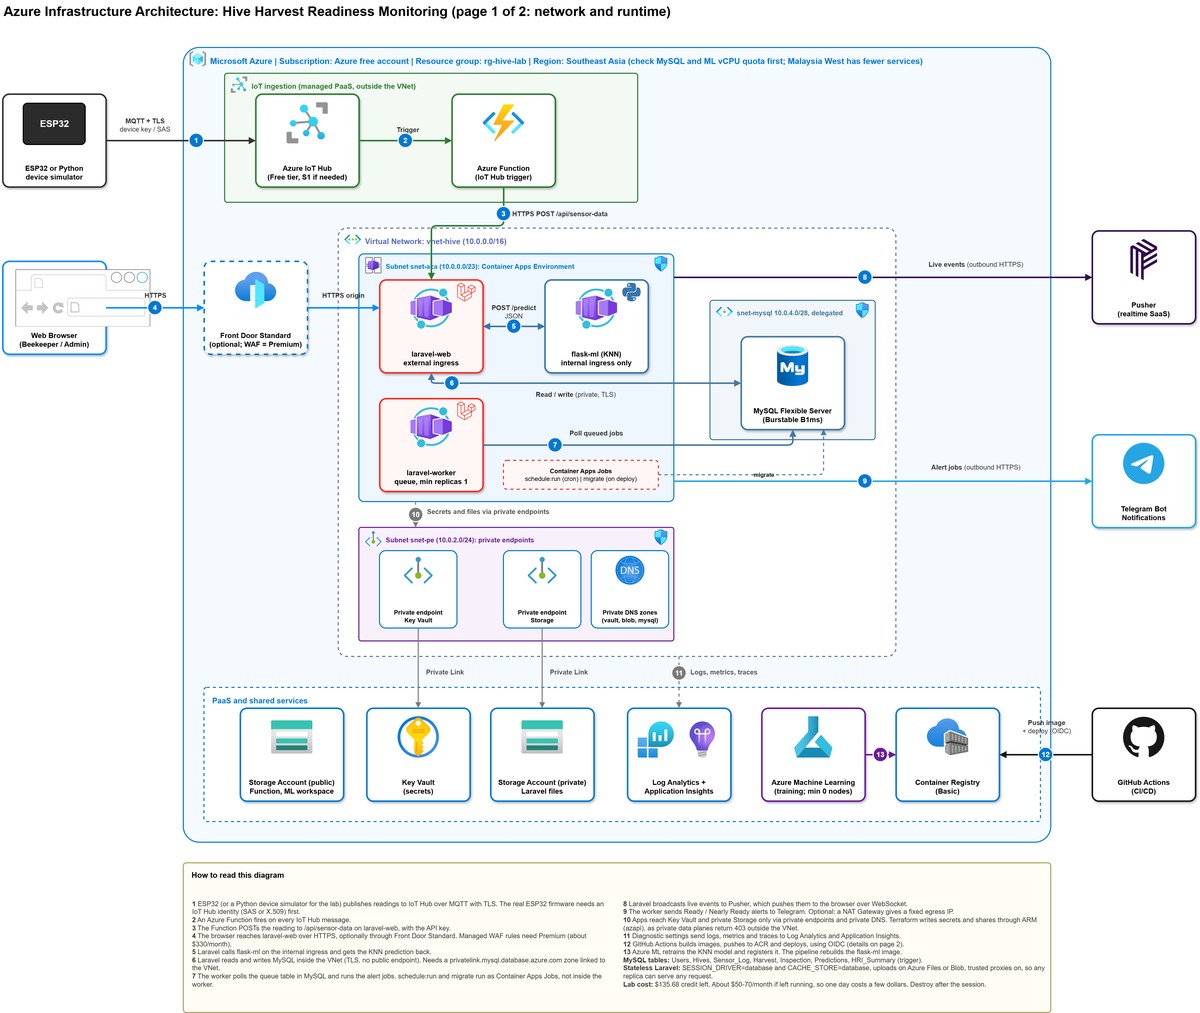
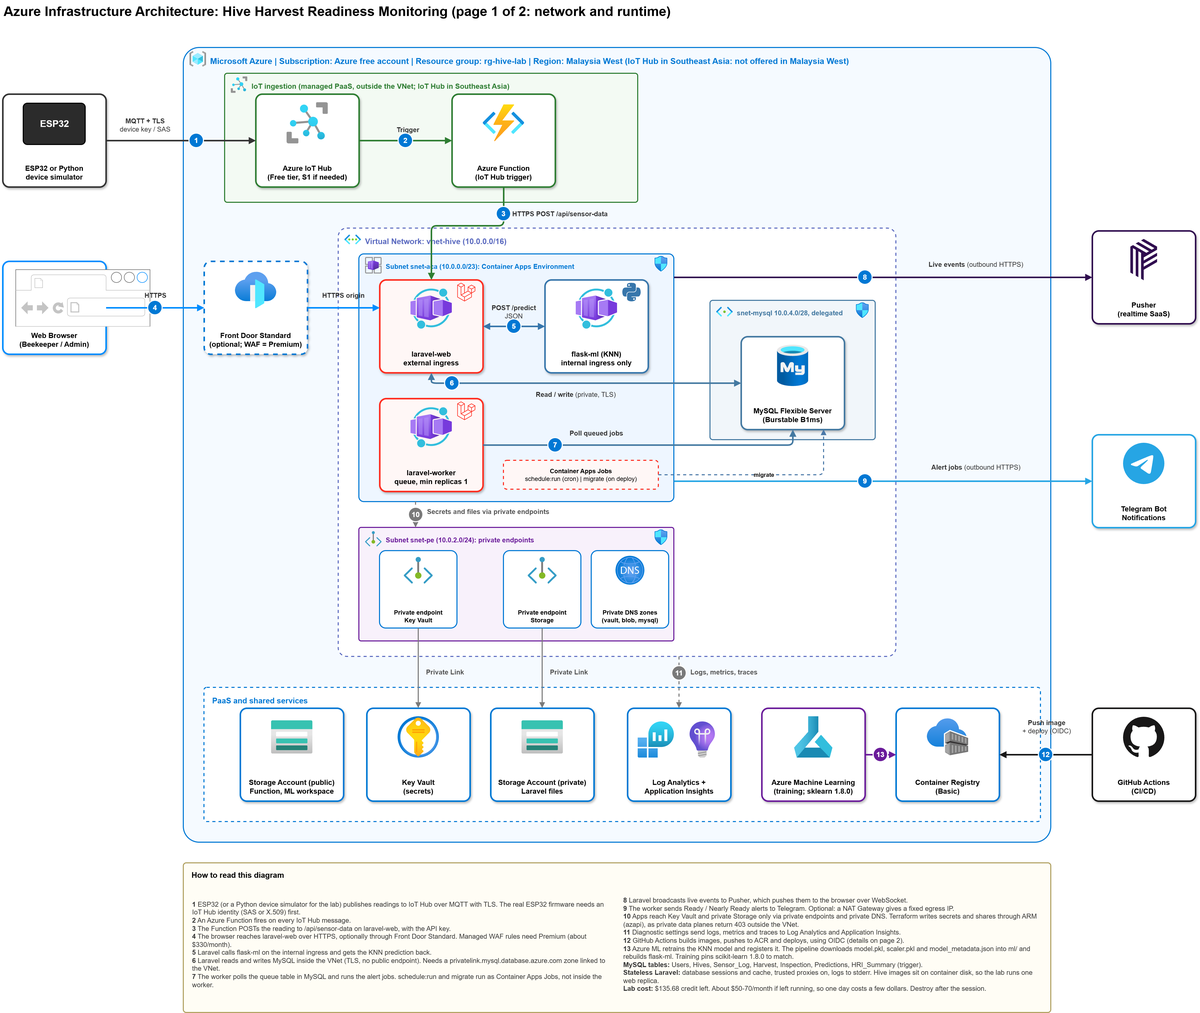
docs: record what was built, measured and found so far
- implementation-log: add the problems found before deployment (13, each
  labelled by how it was found), new timeline rows for CI, the app tests and
  the preflight run, updated open questions, and the lessons so far.
- README: add a status table, measured results and what was learned.
- deploy: concrete step-by-step runbook for the three roots.
- troubleshooting: add the budget entry.
- architecture and cost docs: Malaysia West with the IoT Hub in Southeast
  Asia, and the buzzyhive tag.
- diagram: new region label and tag, and re-exported PNGs for both pages.

Nothing has been applied to Azure yet. Results are from local builds, CI and
read-only commands, and each claim says which.

Changed region(s): [[0.4991, 0.8701, 0.8735, 0.9944], [0.156, 0.9012, 0.3744, 0.9633], [0.6551, 0.7769, 0.6863, 0.8079]]

diff --git a/docs/implementation-log.md b/docs/implementation-log.md
@@ -3,7 +3,7 @@
 This log records how the infrastructure was planned, deployed, and fixed. It lists what happened, what failed, and why each decision was made.
 
 > [!NOTE]
-> The design and the Terraform scaffold are done, and `terraform validate` passes in all three roots. Nothing has been applied yet, so the apply entries below are left to fill in.
+> The design, the Terraform scaffold and the Docker images are done and checked locally and in CI. A read-only preflight has been run against the real subscription. Nothing has been applied to Azure yet, so the apply entries below are left to fill in.
 
 ## 1. Goal
 
@@ -37,7 +37,7 @@ Host [BuzzyHive 2.0](https://github.com/tttaufiqqq/Kelulut-Hive-Harvest-Readines
 | MySQL parameter | `log_bin_trust_function_creators = ON` | The migrations create a trigger, which failed locally with error 1419 |
 | Locks | Behind `enable_locks`, off in the lab | Locks block `terraform destroy` |
 | Pipeline roles | Contributor plus RBAC Administrator | Contributor cannot create role assignments |
-| Region | Southeast Asia | More services than Malaysia West |
+| Region | Malaysia West, IoT Hub in Southeast Asia | `az provider show -n Microsoft.Devices` lists no Malaysia West for IoT Hubs. An earlier draft chose Southeast Asia on an unchecked assumption that Malaysia West had fewer services |
 | Edge | Front Door Standard, optional | WAF managed rules need Premium at about $330 per month |
 
 ## 3. Timeline
@@ -50,21 +50,52 @@ Host [BuzzyHive 2.0](https://github.com/tttaufiqqq/Kelulut-Hive-Harvest-Readines
 | 2026-11-24 | Documentation written | This repository |
 | 2026-11-24 | Dockerfiles, compose file and `.dockerignore` written in the app repository | Found while doing it: the `ML_URL` name was wrong in Terraform, `VITE_PUSHER_*` must be build arguments, `TRUSTED_PROXIES` was needed, and uploads use local disk |
 | 2026-11-24 | Both images built and run with Docker Compose in WSL2 | Whole stack works end to end. The migrate step failed on a trigger until `log_bin_trust_function_creators` was set. See [Docker images](docker.md) for sizes and the Alpine comparison |
+| 2026-11-24 | Region changed after checking the `Microsoft.Devices` provider list | Malaysia West for everything except the IoT Hub, which has no Malaysia West and goes to Southeast Asia |
 | 2026-11-24 | Terraform scaffolded: `bootstrap`, `foundation`, `lab`, `scripts/preflight.sh`, CI workflow | `terraform fmt` and `validate` pass. Not planned or applied. |
+| 2026-11-24 | First push to GitHub triggered CI | `terraform fmt -check`, `validate` and `tflint` passed for all three roots (4 jobs, 17 seconds) |
+| 2026-11-24 | App test suite run in a throwaway container against the changed app code | 168 tests, 842 assertions, all pass |
+| 2026-11-24 | `scripts/preflight.sh` run against the real Free Trial subscription | Providers registered, MySQL B1ms offered in Malaysia West, quota 4 vCPUs (4 for DSv2), IoT Hub listed for Southeast Asia. Two checks had bugs of their own (see section 4), fixed and re-run clean |
 | | Root 1: bootstrap, first apply | Not started |
 | | Root 2: foundation, first apply | Not started |
 | | Root 3: lab, first apply | Not started |
 | | Azure ML training run | Not started |
 
-## 4. Open questions
+## 4. Problems found before deployment
 
-- Does MySQL B1ms have capacity in Southeast Asia for this subscription?
-- Is the Azure ML compute quota for the chosen VM family above zero?
+Found before any resource existed in Azure, mostly by building and running the images. "Running" means reproduced. "Code read" means found by reading the app, then confirmed or fixed in a build. "Review" means reasoned from documented behaviour and not yet confirmed. Entries with a troubleshooting number have a symptom-to-fix write-up.
+
+| Problem | Found by | Effect if missed | Fix |
+|---|---|---|---|
+| The migrations create a MySQL trigger. MySQL refuses it for a non-SUPER user when binary logging is on (error 1419) | Running (Compose) | The migrate Job fails on Azure the same way, because Flexible Server keeps binary logging on | Compose flag, and `log_bin_trust_function_creators` in `lab/data.tf` (troubleshooting 21) |
+| `VITE_PUSHER_*` is compiled into the JavaScript at build time | Code read, confirmed in the build | Live updates silently stop in the browser | Docker build arguments (troubleshooting 16) |
+| The app reads `ML_URL`, but the Terraform and four lines of the app docs said `ML_API_URL` | Code read | Laravel would never reach the ML API | Fixed in both repos |
+| The app does not trust proxies | Running, before and after | Behind the ingress a redirect went to `http://localhost:8080/login`. With the fix it went to `https://...` | Env-gated `TRUSTED_PROXIES` in `bootstrap/app.php` (troubleshooting 17) |
+| Hive images and the thesis PDF are written to local disk | Code read | Uploads are lost on restart and not shared between replicas | One web replica in the lab. Durable storage not built (troubleshooting 18) |
+| The Vite build needs PHP, not only Node | Running | A Node-only build stage fails | The asset stage has both |
+| The region was chosen on an unchecked assumption that Malaysia West has fewer services | Running a provider query, plus the reference project's history | Wrong region for a reason that was never tested | Malaysia West, with only the IoT Hub, which is not offered there, in Southeast Asia |
+| The Alpine base fails for the ML image | Running | pip tries to compile numpy and scipy and fails | `python:3.12-slim` |
+| The preflight said "IoT Hub not listed" for a region that does list it, and its MySQL check errored | Running it on the real subscription | A false blocker and a check that told nothing | Names compared without spaces or case, and a plain text search for the SKU |
+| Private Key Vault and Storage return 403 to Terraform from outside the VNet | Review | Secrets and shares fail to create | `azapi` writes through ARM (troubleshooting 11) |
+| Terraform state with Azure AD auth needs a data-plane role that Owner does not include | Review | The first `init` in the next root fails with 403 | `bootstrap` assigns the role |
+| A placeholder image never exits, so a per-minute Job would pile up runs | Review | Runaway executions and cost | Jobs are created only once real images are set |
+| A Functions Consumption plan generally cannot use storage behind a private endpoint | Review, from memory | The Function fails to start | A separate public storage account (troubleshooting 15) |
+
+## 5. Open questions
+
+- Does MySQL B1ms have free capacity in Malaysia West right now? The preflight shows it is offered, which does not prove capacity.
+- Is 4 vCPUs of DSv2 enough? One `Standard_DS3_v2` training node uses all of it.
+- Do budgets work on a Free Trial subscription? (`enable_budget` is the fallback.)
 - Can the tenant create Entra groups and app registrations with Terraform?
 - Is the Function better placed in the VNet (Flex Consumption) so it can call an internal ingress?
 
-## 5. Lessons
+## 6. Lessons
 
-None yet. Add each lesson here with the problem that taught it, once something has been built and has broken.
+- **Run it before reasoning about it.** Building and running the images exposed several problems that a design review had missed, such as the MySQL trigger, the build-time Pusher values and the missing proxy trust.
+- **Check an assumption before writing it into a diagram.** The region claim sat in the diagram and the docs until a one-line provider query disproved it.
+- **Test the checking tools too.** Both preflight checks had bugs that only showed against the real subscription, and one produced a false blocker.
+- **Measure what can be measured.** The Alpine choice rests on a size and throughput comparison. The ML base choice rests on a failed build, not on a guess.
+- **Document an app's needs in the app.** The findings above are properties of the code, so they live in the app repository and this one links to them.
+
+More lessons go here once something has been applied and has broken.
 
 Symptom-to-fix reference for expected problems: [Troubleshooting](troubleshooting.md).

diff --git a/docs/deploy.md b/docs/deploy.md
@@ -10,8 +10,8 @@ This article shows the planned steps to deploy the infrastructure, change it, an
 - Sign in with `az login`, and select your subscription with `az account set --subscription "<name>"`.
 - Run the preflight script (planned: `scripts/preflight.sh`). It should do three things:
   - Register the resource providers a new subscription often lacks: `Microsoft.App`, `Microsoft.Devices`, `Microsoft.DBforMySQL`, `Microsoft.MachineLearningServices`, `Microsoft.OperationalInsights` and `Microsoft.Cdn`.
-  - Check quota with `az vm list-usage --location southeastasia -o table`.
-  - Confirm MySQL B1ms is offered with `az mysql flexible-server list-skus --location southeastasia -o table`.
+  - Check quota with `az vm list-usage --location malaysiawest -o table`.
+  - Confirm MySQL B1ms is offered with `az mysql flexible-server list-skus --location malaysiawest -o table`.
 - Check that you can create Entra groups and app registrations in your tenant. A university tenant may block this.
 - Check your remaining credit and its expiry date in Cost Management, then Credits ($135.68 when this was written).
 - Build the app images locally first (see [Build the images](#3-build-the-images)).
@@ -55,21 +55,88 @@ The Pusher key and cluster are compiled into the JavaScript, so they are build a
 
 ## 4. Deploy
 
-Apply the roots in order. `foundation` and `lab` read the outputs of the one before.
+Run these in order. Each step says what to check before moving on, and what usually goes wrong.
+
+### 4.1 Preflight
 
 ```bash
-cd bootstrap  && terraform init && terraform apply
-cd ../foundation && terraform init && terraform apply
-cd ../lab     && terraform init && terraform apply
+az login
+az account set --subscription "<name>"
+scripts/preflight.sh malaysiawest southeastasia
 ```
 
-1. **bootstrap:** the `rg-hive-iac` resource group and the state storage account. Copy its backend settings into the other two roots.
-2. **foundation:** subscription-scope Policy (audit mode), tags, a $100 budget and Defender, then Entra groups, the managed identity and the GitHub OIDC credential. Leave `enable_locks = false` in the lab. Save the client ID and tenant ID as GitHub repository variables.
-3. **lab:** VNet, MySQL, Key Vault, both storage accounts, ACR and the three private DNS zones first. Push the images to ACR, then the Container Apps, Jobs, IoT Hub, Function and Azure ML workspace.
+Run it again until every resource provider says `ok` (registration takes a few minutes). A quota or SKU line showing `0` or no result means that feature will fail. Switch it off with an `enable_*` variable, or request quota.
 
-Use `enable_*` variables to apply in phases and skip parts you do not need that session, such as Azure ML or Front Door.
+### 4.2 bootstrap (state storage)
 
-After the first deploy, the GitHub Actions pipeline runs `terraform fmt -check`, `validate` and `plan` on every pull request, and applies from a protected environment. It also builds images, pushes to ACR and updates the Container Apps. It runs the `migrate` Job before the new revision takes traffic.
+```bash
+cd bootstrap
+cp terraform.tfvars.example terraform.tfvars      # set subscription_id
+terraform init && terraform plan
+terraform apply
+terraform output -raw backend_hcl
+```
+
+It also gives your signed-in user `Storage Blob Data Contributor` on the state account. The other roots read state with Azure AD auth, and Owner or Contributor alone cannot. The assignment can take several minutes to take effect, so `terraform init` in the next step may fail with a 403 at first. Wait and retry.
+
+### 4.3 foundation (resource group, governance, identity)
+
+```bash
+cd ../foundation
+cp terraform.tfvars.example terraform.tfvars      # set alert_emails, budget_start_date, github_owner, github_repo
+cp backend.hcl.example backend.hcl                # paste the bootstrap output, keep key = "foundation.tfstate"
+terraform init -backend-config=backend.hcl
+terraform plan
+terraform apply
+```
+
+- `budget_start_date` must be the first day of a month, for example `2026-11-01T00:00:00Z`. If the apply says budgets are not supported on your subscription type, set `enable_budget = false` ([troubleshooting](troubleshooting.md#22-the-budget-cannot-be-created)).
+- Entra groups and the app registration need directory rights. If the plan fails on `azuread`, see [troubleshooting](troubleshooting.md#5-entra-groups-or-app-registration-cannot-be-created).
+- Save the three outputs as GitHub repository variables (`AZURE_CLIENT_ID`, `AZURE_TENANT_ID`, `AZURE_SUBSCRIPTION_ID`). Nothing uses them until a plan or apply job is added to the workflow.
+
+### 4.4 lab, first apply (placeholder images)
+
+```bash
+cd ../lab
+cp terraform.tfvars.example terraform.tfvars      # set subscription_id, alert_email
+cp backend.hcl.example backend.hcl                # key = "lab.tfstate"
+terraform init -backend-config=backend.hcl
+terraform plan
+terraform apply
+```
+
+With `images` unset, the apps run Microsoft's quickstart image, so the platform can be checked before the real images exist. The scheduler and migrate Jobs are not created yet, because the placeholder never exits.
+
+Expected duration: MySQL and the Container Apps environment are the slow parts. I have no measurement; record yours in the [implementation log](implementation-log.md).
+
+Things that commonly fail here, and the fix:
+
+- **A Container App cannot read a Key Vault secret** right after the role assignment. Role assignments take minutes to propagate. Re-run `terraform apply`.
+- **IoT Hub free tier already exists.** Only one `F1` hub is allowed per subscription. Set `enable_iot = false` or delete the other hub.
+- **A SKU or quota error** on MySQL. Check the preflight output, change region or request quota.
+
+### 4.5 lab, second apply (real images)
+
+Build and push the images (see section 3), set `images`, `app_secrets` and `function_api_key` in `terraform.tfvars`, then:
+
+```bash
+terraform apply
+```
+
+This switches the apps to the real images and creates the scheduler and migrate Jobs. Start the migrate Job once before opening the site:
+
+```bash
+az containerapp job start --name laravel-migrate --resource-group rg-hive-lab
+```
+
+### 4.6 Not built yet
+
+- **Function code.** `enable_function` creates the Function app, but this repository does not contain the function that forwards IoT Hub messages to Laravel. It is off by default. Until it exists, readings reach Laravel only through the app's own HTTP endpoint, so the simulator should post there.
+- **Front Door, the load test and the plan and apply jobs in CI.**
+
+After the first deploy, the GitHub Actions workflow runs `terraform fmt -check`, `validate` and `tflint`. Plan and apply jobs are not added yet.
+
+Use `enable_*` variables to apply in phases and skip parts you do not need that session.
 
 Record the duration of each apply, and the real errors you hit, in the [implementation log](implementation-log.md) and [troubleshooting](troubleshooting.md).
 

diff --git a/README.md b/README.md
@@ -14,6 +14,19 @@ This is a learning project. It designs how to run [BuzzyHive 2.0](https://github
 - **Approach:** three container apps (`laravel-web`, `laravel-worker`, `flask-ml`) in a VNet, MySQL Flexible Server on a private subnet, IoT Hub with a Function in front of Laravel, and Azure ML for training. Everything is defined in Terraform and deployed from GitHub Actions.
 - **Run time:** the environment is meant to run for about a day, then be destroyed.
 
+## Status
+
+| Part | State |
+|---|---|
+| Architecture diagram and documentation | Done |
+| Terraform (`bootstrap`, `foundation`, `lab`) | Scaffolded. `validate` passes and CI (fmt, validate, tflint) is green |
+| Preflight against a real subscription | Passed (providers, MySQL SKU, quota, IoT Hub region) |
+| Docker images and local Compose stack | Built and tested end to end. 168 app tests pass |
+| Apply to Azure | **Not run yet** |
+| IoT Hub forwarder function, CI plan and apply | Not written yet |
+
+What was found along the way, and what is still open, is in the [implementation log](docs/implementation-log.md).
+
 ## 1. Learning goals
 
 - Containerize a Laravel + React app and a Flask ML API, and run them on Azure Container Apps.
@@ -48,6 +61,7 @@ For a full explanation, see [Architecture](docs/architecture.md).
 
 - **Scaffolded, not applied.** The three Terraform roots validate, but none of the steps in [Deploy](docs/deploy.md) have been run, so the first apply will likely turn up provider or quota errors.
 - **Synthetic ML data.** The KNN model is trained on a synthetic dataset, so Azure ML here is a pipeline exercise, not a modelling one.
+- **No Function code.** The Function app can be created (`enable_function`), but the function that forwards IoT Hub messages to Laravel is not written yet, so the IoT Hub path is incomplete. It is off by default.
 - **Simulated device.** The real ESP32 firmware posts plain HTTP with an API key. Talking to IoT Hub needs firmware changes, so the lab uses a Python device simulator.
 - **One environment.** There is a single `rg-hive-lab` group with no separate dev or staging.
 - **Pusher and Telegram stay external.** They are SaaS and are called over outbound HTTPS.
@@ -96,7 +110,31 @@ The commands for each root are in [Deploy, redeploy, and destroy](docs/deploy.md
 
 The reasoning behind each is in [Architecture](docs/architecture.md#6-design-decisions).
 
-## 6. Related resources
+## 6. Results so far
+
+Nothing has run on Azure yet. These come from local builds, CI and read-only commands against the subscription. Measured on one laptop (Docker 29.7 in WSL2), one run each.
+
+| Check | Result |
+|---|---|
+| Laravel image | 333 MB on Alpine (a Debian build is 900 MB) |
+| ML image | 452 MB (533 MB before removing bundled test folders) |
+| Alpine against Debian, 0.5 CPU | `/up` 77.5 against 88.9 requests per second, `/login` 32.2 against 35.7, memory 51 MB for both |
+| Local stack | MySQL, flask-ml, migrate, web, worker and scheduler run end to end. A sensor POST returns 201 in 0.16 s warm |
+| App tests with the changed code | 168 passed, 842 assertions |
+| CI on the first push | `fmt`, `validate` and `tflint` green for all three roots |
+| Preflight on the real subscription | Providers registered, MySQL B1ms offered in Malaysia West, 4 vCPU quota, IoT Hub listed for Southeast Asia |
+
+Why the images are built this way: [Docker images](docs/docker.md). The full list of 13 problems found before deploying, and how each was found: [Implementation log](docs/implementation-log.md#4-problems-found-before-deployment).
+
+## 7. What I learned
+
+- **Run it before reasoning about it.** Building the images exposed problems a design review had missed: a MySQL trigger that needs a server parameter, Pusher values that must exist at build time, and an app that does not trust proxies.
+- **Check an assumption before it reaches a diagram.** "Malaysia West has fewer services" sat in the docs until a one-line provider query disproved it. Only the IoT Hub is missing there.
+- **Test the checking tools.** The preflight script had two bugs that only showed against the real subscription.
+- **Measure the choices you can.** Alpine saved 567 MB for about 10 to 13 percent less throughput on the web image, and failed outright for the ML image because the numeric packages have no musl wheels.
+- **Private data planes break Terraform.** With public access off, secrets and file shares fail with 403 from outside the VNet, so those writes go through ARM with `azapi`. This is from review and not yet confirmed on Azure.
+
+## 8. Related resources
 
 - [BuzzyHive 2.0](https://github.com/tttaufiqqq/Kelulut-Hive-Harvest-Readiness-Prediction): the application this infrastructure hosts
 - [Azure Container Apps documentation](https://learn.microsoft.com/en-us/azure/container-apps/)

diff --git a/docs/architecture.md b/docs/architecture.md
@@ -79,7 +79,7 @@ IoT Hub, the Function and Azure ML are managed PaaS outside the VNet. The Functi
 
 | Area | What it contains |
 |---|---|
-| Governance | Azure Policy (allowed regions, required tags, in audit mode so it never blocks an apply), resource locks, tags `env=lab` and `project=hive`, a budget with alerts at 75% and 90% of $100 (below the $135.68 credit left), and Defender for Cloud on the free tier |
+| Governance | Azure Policy (allowed regions, required tags, in audit mode so it never blocks an apply), resource locks, tags `env=lab` and `project=buzzyhive`, a budget with alerts at 75% and 90% of $100 (below the $135.68 credit left), and Defender for Cloud on the free tier |
 | Identity | Entra groups `grp-hive-admins` and `grp-hive-readers`, a user-assigned managed identity for the apps, and an app registration with a GitHub OIDC federated credential |
 | DevOps | GitHub repository, GitHub Actions, Terraform with plan before apply, and a storage account holding state in `rg-hive-iac` |
 | Operations | Log Analytics, Application Insights, alert rules (no data for 15 minutes, 5xx responses, database CPU), Activity Log, MySQL automated backups, and optional Azure Load Testing |
@@ -109,7 +109,7 @@ Role assignments:
 | Terraform roots | `bootstrap` (state, local), `foundation` (governance, identity), `lab` (network, data, workloads) | Only `lab` is destroyed after each session. Fewer state files than four separate stacks. |
 | Locks | Behind a variable, off in the lab | A `CanNotDelete` lock makes `terraform destroy` fail, so keep locks in the `foundation` root |
 | ML serving | Keep `flask-ml` in Container Apps, use Azure ML for training | A managed online endpoint bills all the time and a KNN on small data does not need it |
-| Region | Southeast Asia | Malaysia West has fewer services. Check MySQL and ML vCPU quota first. |
+| Region | Malaysia West, with the IoT Hub in Southeast Asia | The provider list for `Microsoft.Devices` has no Malaysia West, so the IoT Hub goes to the nearest region that has it. It sits outside the VNet and devices reach it over the internet, so the split costs only a little cross-region traffic. The other services were listed for Malaysia West. Check MySQL and ML vCPU quota first. Malaysia West is also where the reference project ran, while Southeast Asia had VM capacity limits on the same account. |
 
 ## 7. What stays outside Azure
 

diff --git a/docs/README.md b/docs/README.md
@@ -5,7 +5,7 @@ Read these in order.
 1. [Architecture](architecture.md): what this project deploys, how data flows, and why each design decision was made. Read this first to understand the system before touching anything.
 2. [Docker images](docker.md): why the two images are built the way they are, with measured sizes. Read this to understand the images before changing them.
 3. [Deploy, redeploy, and destroy](deploy.md): the planned steps to stand it up, change it, and tear it down. Read this before running Terraform.
-4. [Implementation log](implementation-log.md): the decisions made so far and the status of each stack. It becomes the timeline of what failed and why once the build starts.
+4. [Implementation log](implementation-log.md): the decisions made, the timeline, the problems found before deployment and the lessons so far. Read this for the story behind the decisions.
 5. [Troubleshooting](troubleshooting.md): symptom-to-fix reference for problems expected from the design. Not meant to be read start to finish.
 6. [Cost and teardown](cost-and-teardown.md): estimated cost, how to check your own, and how to leave nothing running. Read this before you leave anything running.
 

diff --git a/docs/troubleshooting.md b/docs/troubleshooting.md
@@ -153,3 +153,9 @@ az monitor activity-log list --resource-group rg-hive-lab --offset 1h -o table
 **Symptom:** `php artisan migrate` stops on the `HRI_Summary` trigger with `SQLSTATE[HY000]: General error: 1419 You do not have the SUPER privilege and binary logging is enabled`.
 
 **Fix:** this was hit locally (it is why the compose file starts MySQL with `--log-bin-trust-function-creators=1`) and would hit Azure the same way. Flexible Server keeps binary logging on and its admin has no SUPER privilege. `lab/data.tf` sets the server parameter `log_bin_trust_function_creators` to `ON`.
+
+## 22. The budget cannot be created
+
+**Symptom:** the `foundation` apply fails on `azurerm_consumption_budget_subscription`, for example with a message that the subscription type is not supported.
+
+**Fix:** this is expected to be possible on a free trial, but I have not confirmed it. Set `enable_budget = false` in `foundation/terraform.tfvars` and apply again. The budget only sends emails, so check your credit by hand under Cost Management, then Credits.

diff --git a/docs/cost-and-teardown.md b/docs/cost-and-teardown.md
@@ -38,7 +38,7 @@ The budget in the `foundation` root alerts at 75% and 90% of $100, which sits be
 1. In the Azure Portal, open **Cost Management**, then **Cost analysis**.
 2. Set the scope to your subscription and a date range that covers your deployment.
 3. Group by **Resource group**, then by **Service name** and **Location**.
-4. Filter on the tag `project = hive` to show only this project.
+4. Filter on the tag `project = buzzyhive` to show only this project.
 5. Data lags by 8 to 24 hours, so a deployment you just destroyed may not show its full cost yet.
 
 ## 3. Teardown
@@ -48,7 +48,7 @@ MySQL, the registry and private endpoints bill hourly, so delete the environment
 After the destroy, confirm nothing is left:
 
 ```bash
-az resource list --tag project=hive -o table
+az resource list --tag project=buzzyhive -o table
 az group list -o table
 ```
 
